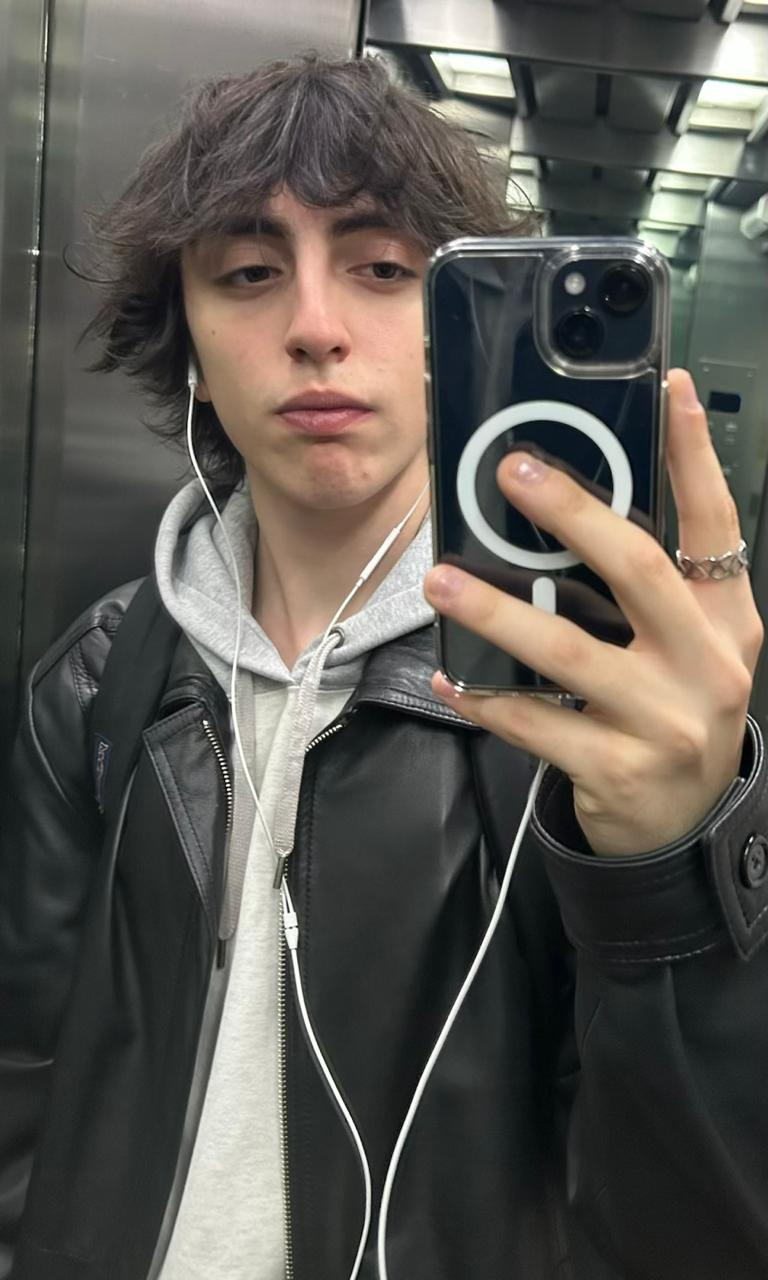
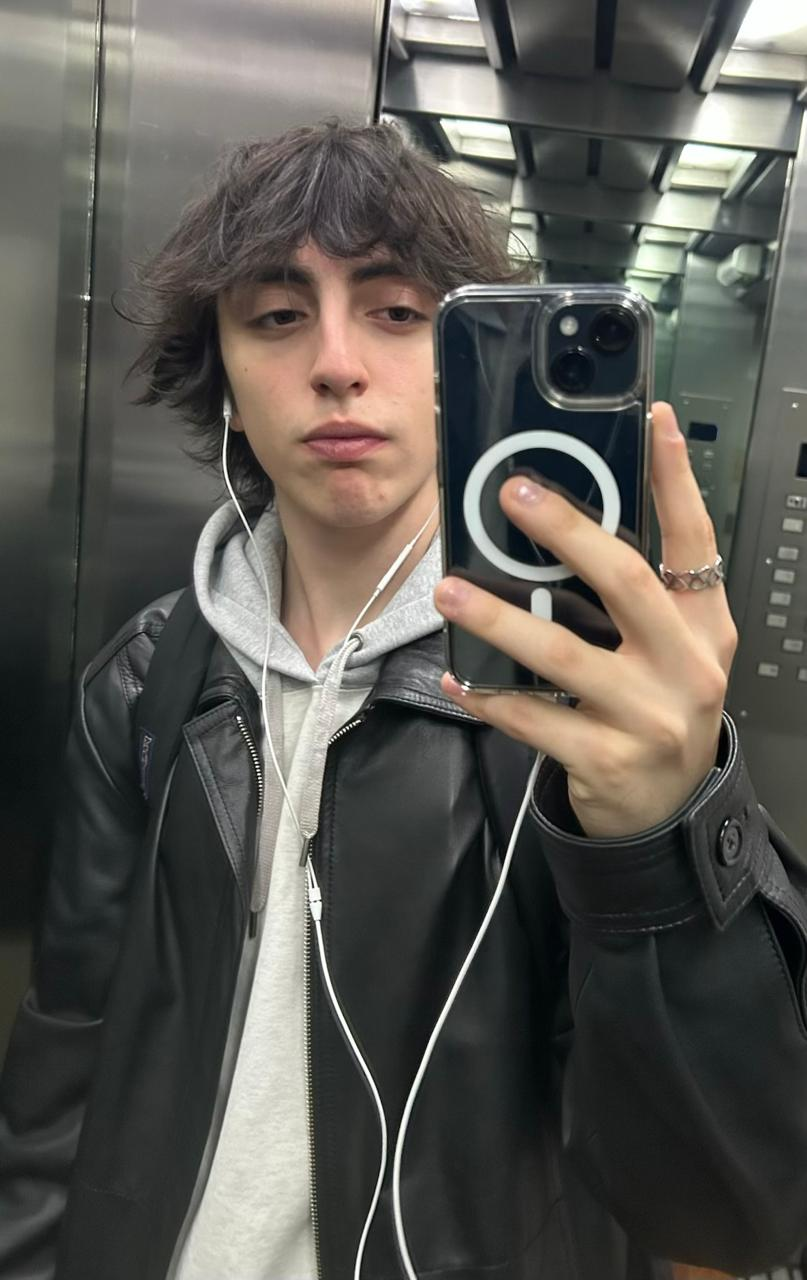
Fixes IMG intro

diff --git a/src/style.css b/src/style.css
@@ -256,7 +256,7 @@ main {
 }
 
 .intro img {
-  width: 200px;
+  width: 210px;
   transition: transform 0.2s ease, filter 0.2s ease;
   box-shadow: 1px 1px 7.5px black;
 }
